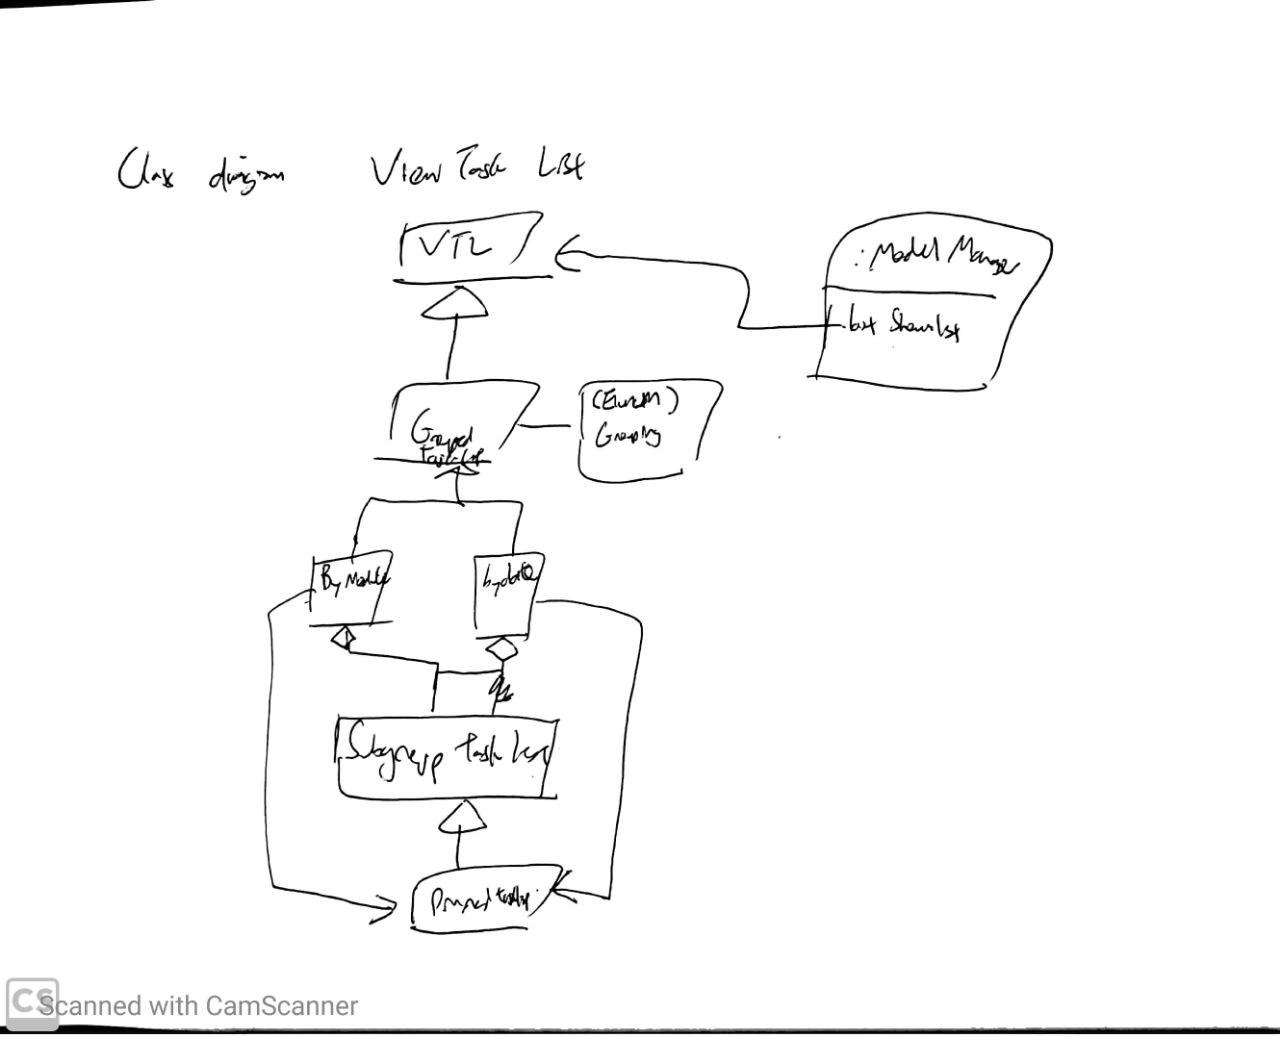
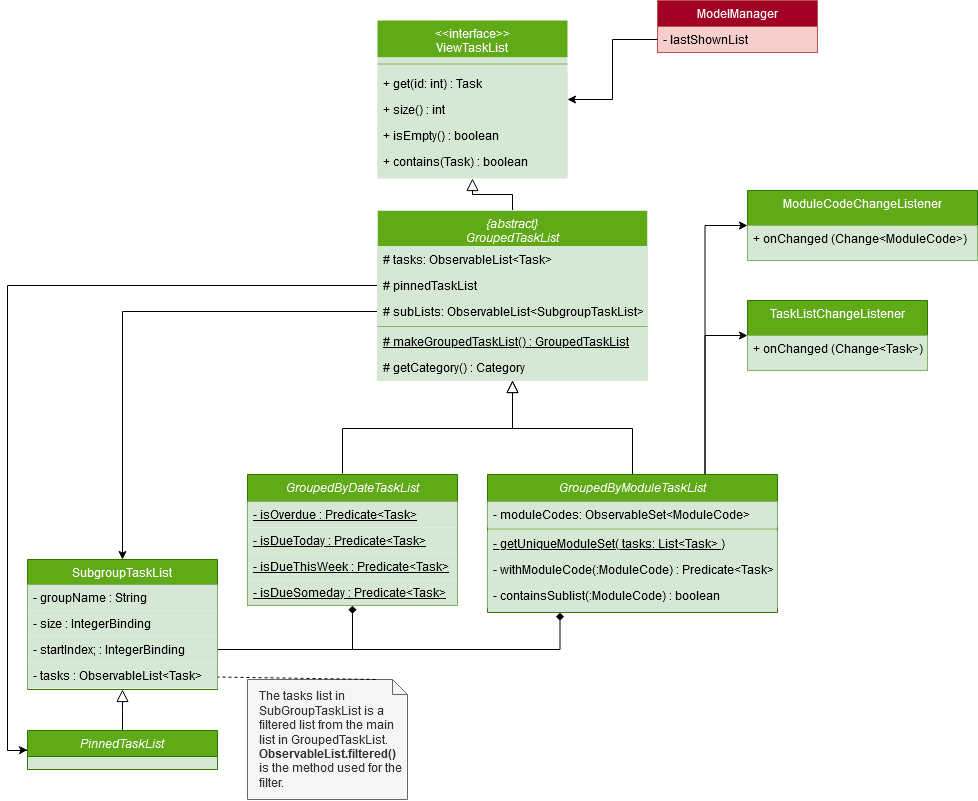
Updated TaskListClassDiagram

diff --git a/src/main/java/seedu/jelphabot/model/task/tasklist/GroupedTaskList.java b/src/main/java/seedu/jelphabot/model/task/tasklist/GroupedTaskList.java
@@ -31,7 +31,7 @@ public abstract class GroupedTaskList implements ViewTaskList {
      */
     protected final ObservableList<Task> tasks;
 
-    protected final ObservableList<SubgroupTaskList> subgroupTaskLists = FXCollections.observableArrayList();
+    protected final ObservableList<SubgroupTaskList> subLists = FXCollections.observableArrayList();
 
     protected GroupedTaskList(PinnedTaskList pinnedTaskList,
         ObservableList<Task> tasks) {
@@ -51,7 +51,7 @@ public abstract class GroupedTaskList implements ViewTaskList {
     @Override
     public Task get(int id) throws TaskNotFoundException {
         assert id < size();
-        for (SubgroupTaskList sublist : subgroupTaskLists) {
+        for (SubgroupTaskList sublist : subLists) {
             if (id < sublist.size()) {
                 return sublist.get(id);
             } else {
@@ -66,9 +66,7 @@ public abstract class GroupedTaskList implements ViewTaskList {
         return get(index.getZeroBased());
     }
 
-    /**
-     * Returns true if the list contains an equivalent task as the given argument.
-     */
+    @Override
     public boolean contains(Task toCheck) {
         requireNonNull(toCheck);
         return tasks.stream().anyMatch(toCheck::isSameTask);
@@ -87,24 +85,24 @@ public abstract class GroupedTaskList implements ViewTaskList {
     @Override
     public Iterator<Task> iterator() {
         List<Task> tasks = new ArrayList<>();
-        for (SubgroupTaskList sublist : subgroupTaskLists) {
+        for (SubgroupTaskList sublist : subLists) {
             tasks.addAll(sublist.getList());
         }
         return tasks.iterator();
     }
 
     public ObservableList<SubgroupTaskList> getSublists() {
-        return subgroupTaskLists;
+        return subLists;
     }
 
     /**
      * Gets an IntegerBinding for the next Sublist in this GroupedTaskList.
      */
     protected IntegerBinding subsequentElementStartIndex() {
-        if (subgroupTaskLists.isEmpty()) {
+        if (subLists.isEmpty()) {
             return Bindings.createIntegerBinding(() -> 0);
         } else {
-            SubgroupTaskList lastSublist = subgroupTaskLists.get(subgroupTaskLists.size() - 1);
+            SubgroupTaskList lastSublist = subLists.get(subLists.size() - 1);
             return (IntegerBinding) lastSublist.startIndexBinding().add(lastSublist.sizeBinding());
         }
     }
@@ -162,7 +160,7 @@ public abstract class GroupedTaskList implements ViewTaskList {
     protected void clear() {
         this.pinnedTaskList.clear();
         this.tasks.clear();
-        this.subgroupTaskLists.clear();
+        this.subLists.clear();
     }
 
     /**
@@ -175,7 +173,7 @@ public abstract class GroupedTaskList implements ViewTaskList {
 
     protected void setTasks(GroupedTaskList replacement) {
         requireNonNull(replacement);
-        subgroupTaskLists.setAll(replacement.getSublists());
+        subLists.setAll(replacement.getSublists());
         setTasks(replacement.tasks);
     }
     // === End of Methods used for testing ===

diff --git a/src/main/java/seedu/jelphabot/model/task/tasklist/GroupedByModuleTaskList.java b/src/main/java/seedu/jelphabot/model/task/tasklist/GroupedByModuleTaskList.java
@@ -53,7 +53,7 @@ public class GroupedByModuleTaskList extends GroupedTaskList {
      * @param moduleCode The ModuleCode to be tested
      * @return a predicate which tests Tasks for the parameter module code.
      */
-    private Predicate<Task> hasModuleCode(ModuleCode moduleCode) {
+    private Predicate<Task> withModuleCode(ModuleCode moduleCode) {
         return task -> task.getModuleCode().equals(moduleCode);
     }
 
@@ -69,8 +69,8 @@ public class GroupedByModuleTaskList extends GroupedTaskList {
      * @param moduleCode the value of the sublist header.
      */
     private void addSublist(ModuleCode moduleCode) {
-        subgroupTaskLists.add(
-            new SubgroupTaskList(moduleCode.toString(), this.tasks.filtered(hasModuleCode(moduleCode)),
+        subLists.add(
+            new SubgroupTaskList(moduleCode.toString(), this.tasks.filtered(withModuleCode(moduleCode)),
                 subsequentElementStartIndex()
             ));
     }
@@ -80,12 +80,12 @@ public class GroupedByModuleTaskList extends GroupedTaskList {
      */
     public boolean containsSublist(ModuleCode moduleCode) {
         requireNonNull(moduleCode);
-        return subgroupTaskLists.stream().anyMatch(sublist -> sublist.getGroupName().equals(moduleCode.toString()));
+        return subLists.stream().anyMatch(sublist -> sublist.getGroupName().equals(moduleCode.toString()));
     }
 
     @Override
     public ObservableList<SubgroupTaskList> getSublists() {
-        return subgroupTaskLists.sorted(Comparator.comparing(SubgroupTaskList::getGroupName));
+        return subLists.sorted(Comparator.comparing(SubgroupTaskList::getGroupName));
     }
 
     /* === Methods used for testing. Application classes should not call these methods as Tasks are intended
@@ -147,7 +147,7 @@ public class GroupedByModuleTaskList extends GroupedTaskList {
             }
             if (change.wasRemoved()) {
                 ModuleCode removedCode = change.getElementRemoved();
-                subgroupTaskLists.removeIf(sublist -> sublist.getGroupName().equals(removedCode.toString()));
+                subLists.removeIf(sublist -> sublist.getGroupName().equals(removedCode.toString()));
             }
         }
     }

diff --git a/src/main/java/seedu/jelphabot/model/task/tasklist/GroupedByDateTaskList.java b/src/main/java/seedu/jelphabot/model/task/tasklist/GroupedByDateTaskList.java
@@ -47,13 +47,13 @@ public class GroupedByDateTaskList extends GroupedTaskList {
      * The sublist must not already exist in the list.
      */
     private void addSublist(String title, Predicate<Task> predicate) {
-        subgroupTaskLists.add(
+        subLists.add(
             new SubgroupTaskList(title, tasks.filtered(predicate), subsequentElementStartIndex()));
     }
 
     @Override
     public ObservableList<SubgroupTaskList> getSublists() {
-        return subgroupTaskLists.filtered(subgroupTaskList -> !subgroupTaskList.isEmpty());
+        return subLists.filtered(subgroupTaskList -> !subgroupTaskList.isEmpty());
     }
 
     /* === Methods used for testing. Application classes should not call these methods as Tasks are intended
@@ -61,7 +61,7 @@ public class GroupedByDateTaskList extends GroupedTaskList {
     @Override
     protected void setTasks(List<Task> taskList) {
         this.tasks.setAll(taskList);
-        this.subgroupTaskLists.clear();
+        this.subLists.clear();
         addSublist("Overdue", isOverdue);
         addSublist("Due Today", isDueToday);
         addSublist("Due This Week", isDueThisWeek);

diff --git a/src/main/java/seedu/jelphabot/model/task/tasklist/SubgroupTaskList.java b/src/main/java/seedu/jelphabot/model/task/tasklist/SubgroupTaskList.java
@@ -52,9 +52,4 @@ public class SubgroupTaskList {
     public IntegerBinding startIndexBinding() {
         return startIndex;
     }
-
-    public IntegerBinding subsequentElementStartIndex() {
-        return (IntegerBinding) startIndex.add(size);
-    }
-
 }

diff --git a/src/main/java/seedu/jelphabot/model/task/tasklist/ViewTaskList.java b/src/main/java/seedu/jelphabot/model/task/tasklist/ViewTaskList.java
@@ -14,4 +14,9 @@ public interface ViewTaskList extends Iterable<Task> {
     int size();
 
     boolean isEmpty();
+
+    /**
+     * Returns true if the list contains an equivalent task as the given argument.
+     */
+    boolean contains(Task task);
 }
